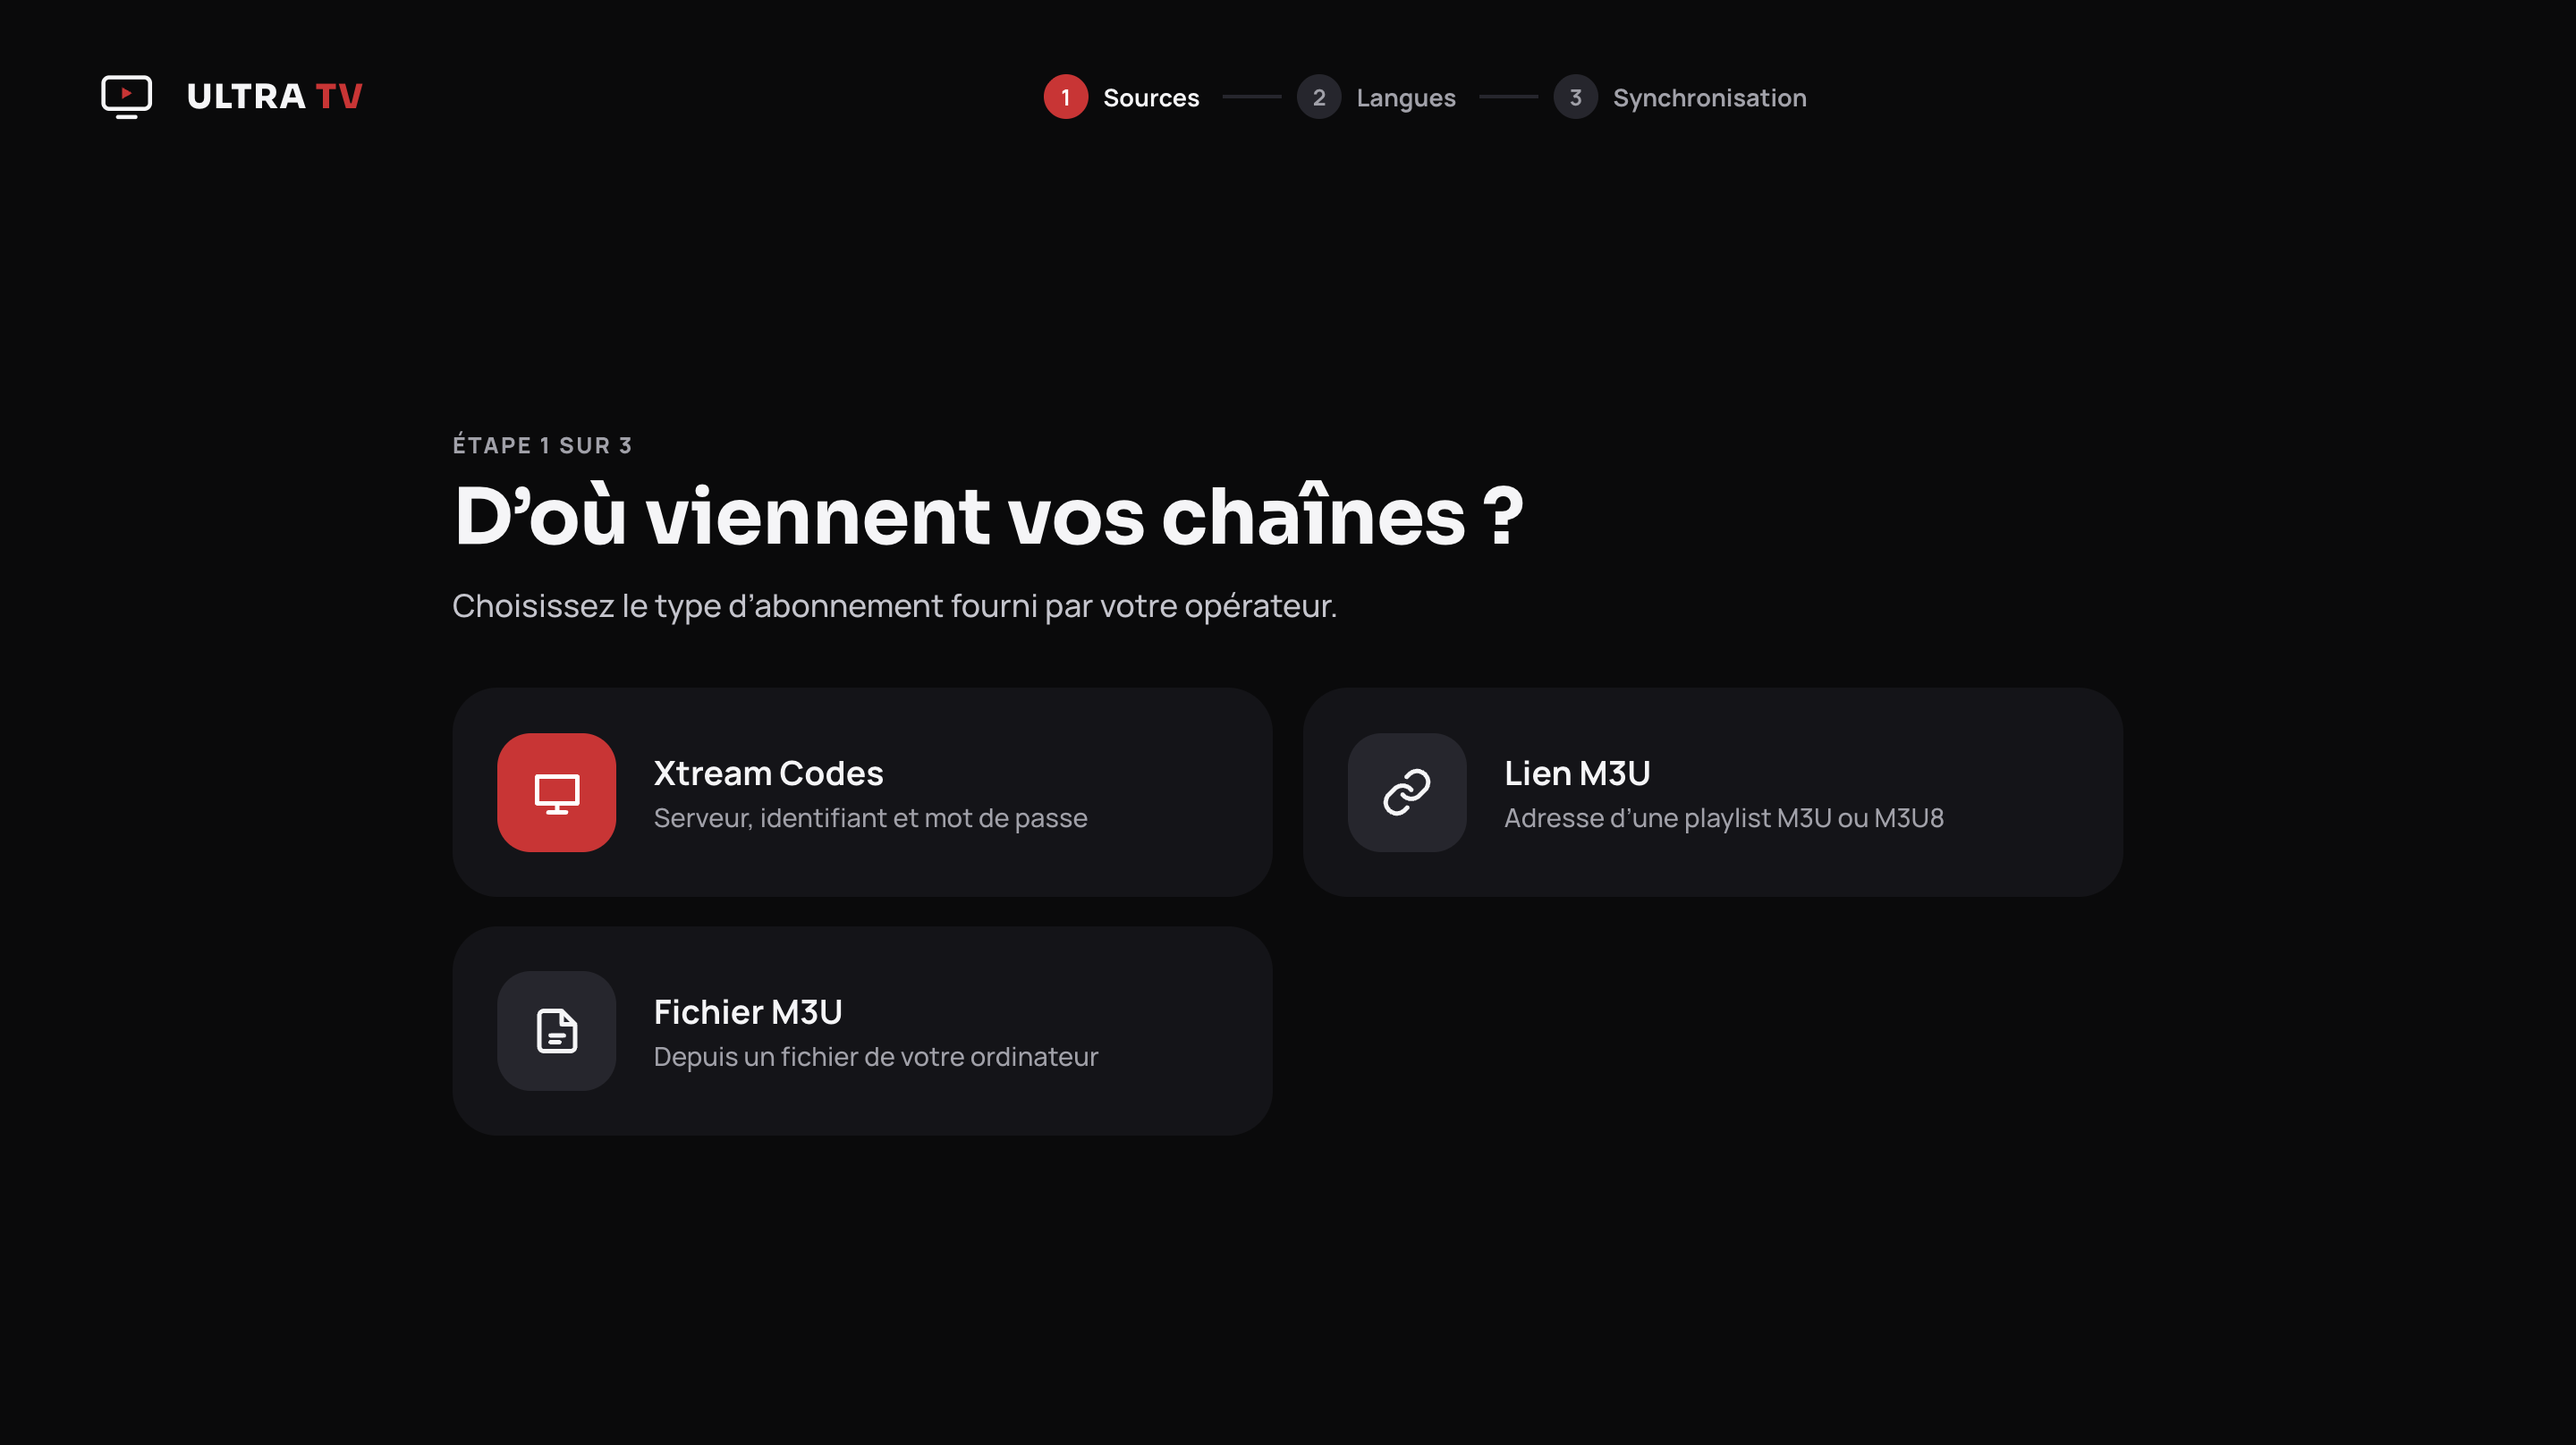
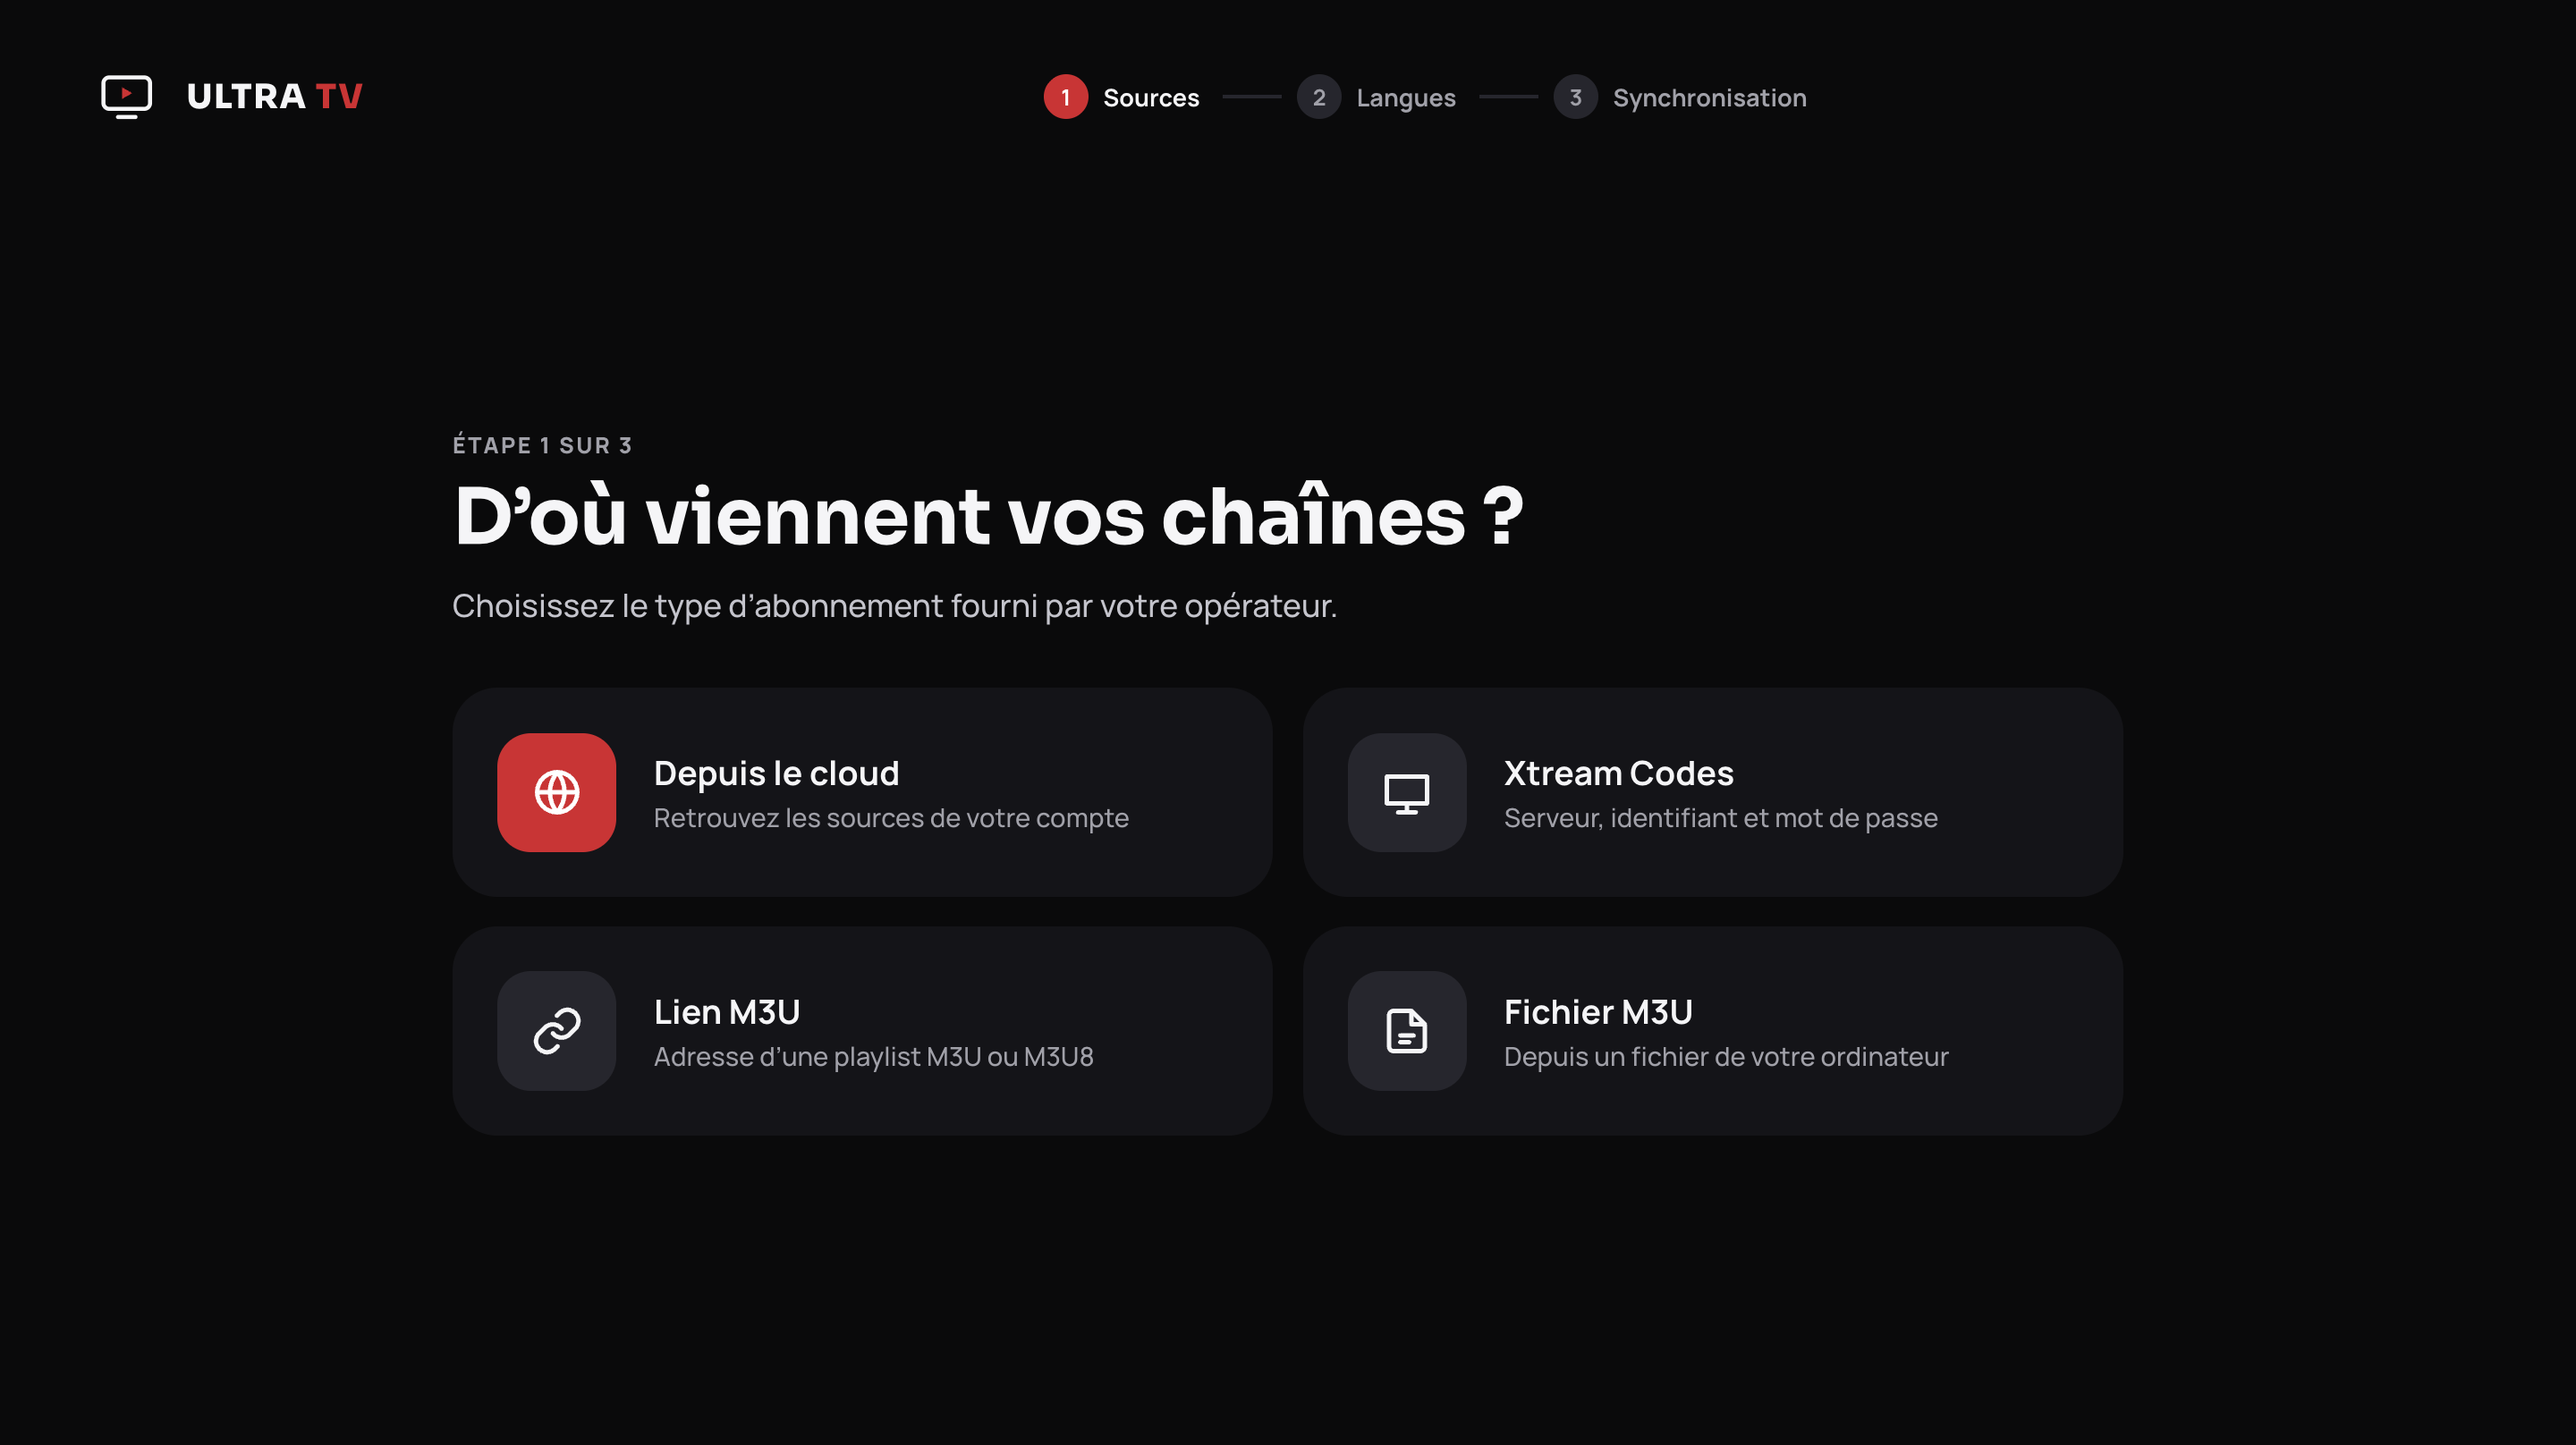
docs: compte cloud, tests de bout en bout Electron
Claude-Session: https://claude.ai/code/session_013ATXNNyiToxpbWNfLCVcfA

diff --git a/web/README.md b/web/README.md
@@ -54,6 +54,28 @@ dans un navigateur, il faut un proxy CORS (`../cloudflare`, `../vercel-proxy`, `
   extractible (navigateur). Jamais journalisés, jamais affichés.
 * Aucune URL de flux n'est affichée ni journalisée.
 
+## Compte cloud (application de bureau)
+
+Même fournisseur sur tous les appareils via le Worker `cloudflare-config` (par défaut
+`https://ultratv-config.khalilbenaz.workers.dev`, modifiable dans Réglages › Cloud). Protocole
+identique à celui de l'application Android (`CloudPairingClient.kt`) :
+
+* **Appairage** : `POST /api/pair/start` donne un code à 8 caractères ; l'utilisateur le saisit sur le
+  tableau de bord ; l'appli interroge `POST /api/pair/poll` puis stocke le jeton d'appareil chiffré
+  (`safeStorage`). `429` ralentit l'interrogation, `401` efface le jeton.
+* **Synchronisation** au lancement, toutes les 6 h et à la demande : `GET /api/config` (ETag /
+  `If-None-Match`), puis fusion avec les sources locales — ajout, modification (nouvelle synchro du
+  catalogue si les identifiants changent), retrait (`src/cloud/reconcile.ts`). La clé de fusion est
+  l'identifiant du fournisseur côté Worker. Rotation du jeton après 90 jours.
+* **Partage** d'une source locale (« Partager cette source ») : `POST /api/device/providers` avec
+  `shareWith: "all" | [idsAppareils]` ; les sources locales restent privées tant qu'elles ne sont pas
+  partagées. Option masquée si le Worker répond 404. Renommage de l'appareil : `PATCH /api/device`.
+* Les requêtes vers le Worker sont faites par le processus principal d'Electron (IPC
+  `cloudRequest` : HTTPS seulement, aucune redirection suivie, en-têtes filtrés), jamais depuis la
+  page. Hors Electron (navigateur), l'option n'est pas proposée.
+
+Les tests (`src/cloud/*.test.ts`) tournent contre un faux Worker (`src/cloud/fakeWorker.ts`).
+
 ## Développement
 
 ```bash

diff --git a/electron/README.md b/electron/README.md
@@ -122,3 +122,17 @@ Pilotage par Playwright / CDP : lancer le binaire avec `--remote-debugging-port=
 
 Remplacer la devDependency `electron` par `github:castlabs/electron-releases#v33.4.11+wvcus`, puis prevoir la
 signature EVS (macOS/Windows) pour distribuer avec Widevine ; l'installation depuis GitHub doit etre testee en CI.
+
+## Cloud
+
+Le processus principal expose `window.ultratv.cloudRequest({url, method, headers, body})`
+(`cloudfetch.cjs`) pour joindre le Worker de configuration : HTTPS obligatoire (HTTP seulement vers
+la boucle locale, pour les tests), redirections jamais suivies, seuls les en-têtes `Authorization`,
+`Content-Type`, `Accept` et `If-None-Match` passent, délai de 15 s, réponse limitée à 1 Mo. Rien
+n'est journalisé. Voir `../web/README.md` pour le protocole.
+
+## Tests de bout en bout
+
+Les parcours Playwright `_electron` utilisent `ULTRATV_USER_DATA` (profil isolé). Attention : avec
+`ULTRATV_HEADLESS=1` (fenêtre masquée) Chromium bride les minuteurs et les `requestAnimationFrame`
+du renderer, ce qui ralentit fortement les tests ; préférer une fenêtre visible en CI locale.
